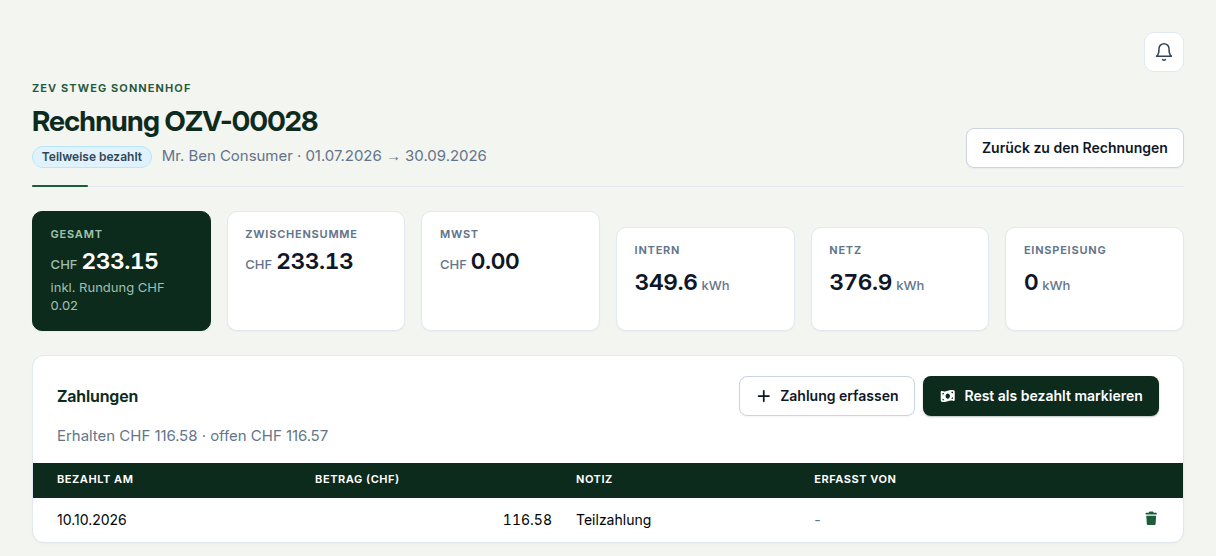
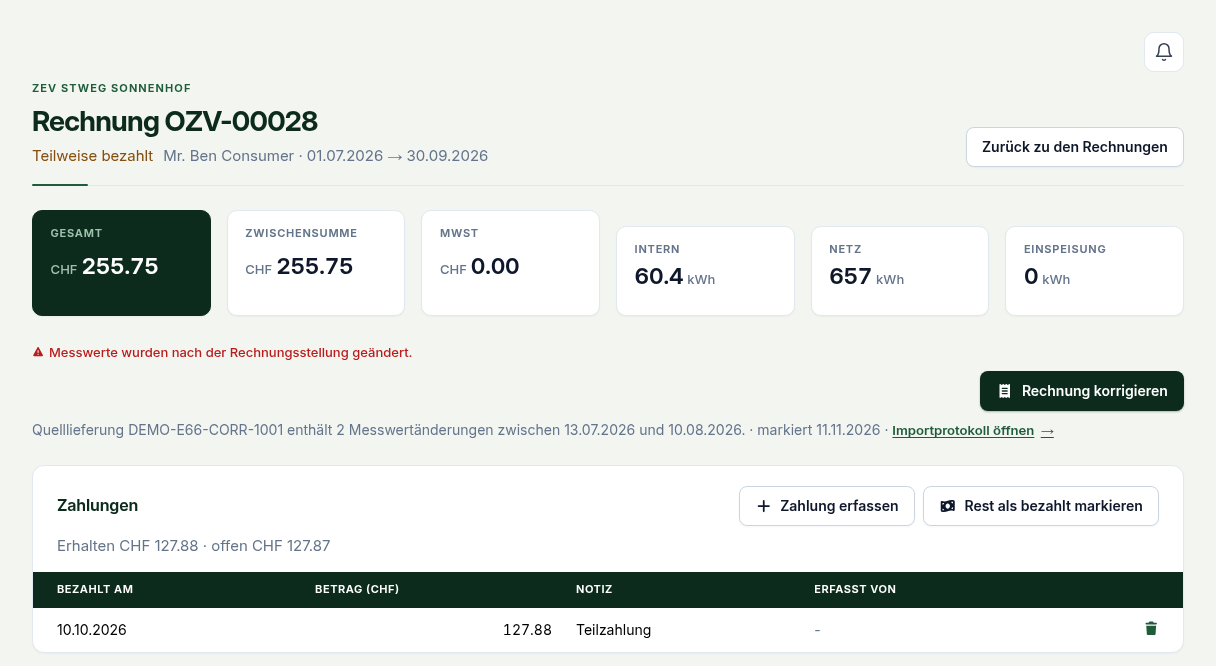
fix(invoices): align detail status colours and co-locate styles (#1253)
* refactor(invoices): move plain status colours beside the badge

InvoiceStatusBadge's plain variant emits .invoice-status-*, but the four rules lived in InvoiceDetailPage.css and only worked because that sheet is imported globally. Move them to InvoicePresentation.css beside the component, imported with the other co-located component sheets in the pages layer; append the import to the block as the stylesheet README asks.

No visual change: the declarations are unchanged and no other rule targets these classes. Cancelled stays red .error-text by design, which the stylesheet now records.

* fix(invoices): align plain status colours

Show sent and paid invoices in green and partly paid invoices as plain
dark-gold text. Update the presentation test, specs and guide screenshots.

diff --git a/frontend/tests/invoice-presentation.test.ts b/frontend/tests/invoice-presentation.test.ts
@@ -55,7 +55,7 @@ describe('shared invoice presentation', () => {
     ] as const)('preserves %s wording in the plain status label with paid amount %s', async (status, paidChf, label) => {
         const { container } = await mount(createElement(InvoiceStatusBadge, { status, paidChf, variant: 'plain' }))
         expect(container.textContent).toContain(label)
-        const className = status === 'cancelled' ? 'error-text' : label === 'invoice.status.partlyPaid' ? 'badge badge-info'
+        const className = status === 'cancelled' ? 'error-text' : label === 'invoice.status.partlyPaid' ? 'invoice-status-partly-paid'
             : ['draft', 'approved', 'sent', 'paid'].includes(status) ? `invoice-status-${status}` : 'muted'
         expect(container.querySelector('span')?.className).toBe(className)
     })

diff --git a/frontend/src/components/InvoicePresentation.tsx b/frontend/src/components/InvoicePresentation.tsx
@@ -41,7 +41,7 @@ export function InvoiceStatusBadge({ status, paidChf, variant = 'badge' }: {
         : status ? t(`invoice.status.${status}`) : ''
     if (status === 'cancelled') return <span className="error-text">{label}</span>
     if (variant === 'plain') {
-        const className = partlyPaid ? 'badge badge-info'
+        const className = partlyPaid ? 'invoice-status-partly-paid'
             : ['draft', 'approved', 'sent', 'paid'].includes(status) ? `invoice-status-${status}` : 'muted'
         return <span className={className}>{label}</span>
     }

diff --git a/frontend/src/components/InvoicePresentation.css b/frontend/src/components/InvoicePresentation.css
@@ -1,0 +1,12 @@
+/* Plain status: draft/partly paid dark gold; approved/sent/paid green. Cancelled uses .error-text. */
+
+.invoice-status-draft,
+.invoice-status-partly-paid {
+  color: var(--warning-800);
+}
+
+.invoice-status-approved,
+.invoice-status-sent,
+.invoice-status-paid {
+  color: var(--success-700);
+}

diff --git a/frontend/src/styles/index.css b/frontend/src/styles/index.css
@@ -109,6 +109,7 @@
 @import '../features/zev/PartyAccess.css' layer(pages);
 @import '../pages/ZevListPage.css' layer(pages);
 @import '../components/dashboard/OwnSystemKwh.css' layer(pages);
+@import '../components/InvoicePresentation.css' layer(pages);
 
 @import './layout/responsive.css' layer(responsive);
 

diff --git a/frontend/src/pages/InvoiceDetailPage.css b/frontend/src/pages/InvoiceDetailPage.css
@@ -22,16 +22,6 @@
   gap: 0.75rem 1rem;
 }
 
-.invoice-status-draft,
-.invoice-status-sent,
-.invoice-status-paid {
-  color: var(--warning-800);
-}
-
-.invoice-status-approved {
-  color: var(--success-700);
-}
-
 .invoice-data-review {
   overflow-wrap: anywhere;
 }

diff --git a/docs/specs/2026-04-frontend-management-page-design.md b/docs/specs/2026-04-frontend-management-page-design.md
@@ -256,7 +256,7 @@ language and should be reused instead of ad hoc page-local CSS when possible:
 | `.stat-card--interactive` | `StatCard` with `onPress`: real button semantics, `[aria-pressed='true']` shows the selected state with `var(--interactive)`; focus styling comes from the global `:focus-visible` ring |
 | `.stat-card--accent`, `.stat-card--success`, `.stat-card--warning`, `.stat-card--danger`, `.stat-card--flat` | Dark accent (≤1 per view); semantic tones color the value (`h3` or span); `flat` removes card chrome for nested tiles |
 | `.button`, `.button-secondary`, `.button-outline`, `.button-danger`, `.button-compact` | Shared button system (flat `var(--interactive)` fill; see SPEC-2026-08-ui-redesign-pdf-style; hover `var(--interactive-hover)`). Inside rows the main action is a forest outline (`button-outline`); destructive row actions are quiet until hovered (`.button-secondary.button-destructive`, and every compact `.button-danger`); confirm dialogs keep the solid red — SPEC-2026-08 §7.4 |
-| `.badge`, `.badge-neutral`, `.badge-info`, `.badge-success`, `.badge-danger`, `.badge-warning`, `.badge-brand`, `.badge-tag` | Small labels. Colour means state: filled desaturated fills from the generated `--status-*` semantics with a matching hairline (current/active/healthy → success, upcoming/scheduled/open → info, needs attention → warning, failed/gap → danger, ended/inactive → neutral), never gold-on-white. Attributes — what a record is (billing mode, energy type, dynamic, version/period counts, meter type, community allocation, roles, kinds, building) — are `.badge-tag`: white, `--border-strong` hairline, `--text-body`, weight 500. Invoice staff tables use the quiet `INVOICE_STATUS_BADGE_CLASS` tag, with cancelled always in red plain text. Detail headers use dark-gold draft/sent/paid and green approved text, except partly paid (blue pill). Participants see `InvoicePaymentState` (due, overdue or paid), rather than workflow labels. |
+| `.badge`, `.badge-neutral`, `.badge-info`, `.badge-success`, `.badge-danger`, `.badge-warning`, `.badge-brand`, `.badge-tag` | Small labels. Colour means state: filled desaturated fills from the generated `--status-*` semantics with a matching hairline (current/active/healthy → success, upcoming/scheduled/open → info, needs attention → warning, failed/gap → danger, ended/inactive → neutral), never gold-on-white. Attributes — what a record is (billing mode, energy type, dynamic, version/period counts, meter type, community allocation, roles, kinds, building) — are `.badge-tag`: white, `--border-strong` hairline, `--text-body`, weight 500. Invoice staff tables use the quiet `INVOICE_STATUS_BADGE_CLASS` tag, with cancelled always in red plain text. Detail headers use plain text: dark-gold draft/partly paid and green approved/sent/paid. Participants see `InvoicePaymentState` (due, overdue or paid), rather than workflow labels. |
 | `IssueText` (`components/IssueText.tsx`, `.issue-text--error`/`--warning`) | A concrete problem as short red or amber text with a warning icon and no capsule (ui-patterns §10.1). With `to` it is a link, with `onClick` a button, with neither plain text: a read-only user gets the same words without a click affordance. Use it instead of `.badge-danger`/`.badge-warning` for something the user can act on; a `.badge` stays for a state (failed job, running work, classification). |
 | `.error-banner`, `.warning-banner`, `.info-banner` | Error/warning surfaces used by `Notice`; `.info-banner` remains for existing information callouts. Import and invoice containers use `.plain-feedback` to remove coloured notice backgrounds without changing roles or recovery actions elsewhere. |
 | `.actions-row`, `.actions-row-wrap`, `.actions-row-end`, `.actions-row-gap-lg` | Inline action layouts; the large gap preserves 1rem between confirmation buttons |

diff --git a/docs/specs/2026-08-ui-redesign-pdf-style.md b/docs/specs/2026-08-ui-redesign-pdf-style.md
@@ -1145,8 +1145,8 @@ contracts are unchanged.
   text line instead (see the tariff list above). Tariff validity `scheduled` is info (the blue of
   "upcoming" elsewhere); an inactive metering point is neutral, not danger. Invoice staff tables use one quiet neutral
   tag (`INVOICE_STATUS_BADGE_CLASS`) for workflow states. Detail headers use
-  `InvoiceStatusBadge variant="plain"` text (draft/sent/paid in dark gold,
-  approved in green, cancelled in red), except partly paid (blue pill);
+  `InvoiceStatusBadge variant="plain"` text (draft and partly paid in dark gold,
+  approved, sent and paid in green, cancelled in red);
   cancelled labels also use red text in staff tables. Participants see their payment
   state instead. Issued PDFs do not print a workflow status pill.
 
@@ -1157,7 +1157,7 @@ contracts are unchanged.
 
 ### 15.4 Pages
 
-- Invoice detail: the status label (plain text, except the partly-paid pill) joins the recipient and period in the page
+- Invoice detail: the status label (plain text) joins the recipient and period in the page
   header (`.invoice-detail-meta`, with a visually-hidden "Status:" label);
   below it `.invoice-figures` holds two `.stat-grid` rows of figure tiles —
   Total (accent), Subtotal, VAT; Local, Grid, Feed-in (`aria-label` =

diff --git a/docs/user-guide/09-invoice-management.md b/docs/user-guide/09-invoice-management.md
@@ -466,9 +466,10 @@ the invoice. Read-only users receive no instruction to generate a document.
 ![Invoice detail page](screenshots/08b-invoice-detail.png)
 
 The page header names the invoice and, next to the recipient and the billing
-period, its current **status** as plain text, with **Cancelled** in red error text and
-**Partly paid** kept as a blue pill (a participant sees whether
-payment is due, overdue or paid instead). The invoice PDF itself no longer prints
+period, its current **status** as plain text: draft and **Partly paid** in dark
+gold, approved, sent and paid in green, and **Cancelled** in red error text
+(a participant sees whether payment is due, overdue or paid
+instead). The invoice PDF itself no longer prints
 a status line; only a draft or cancelled document carries a plain **Draft** or
 **Cancelled** marking. Below it, two rows of figure tiles summarise the invoice the way its
 PDF does:

diff --git a/docs/specs/2026-03-invoice-lifecycle-and-communication.md b/docs/specs/2026-03-invoice-lifecycle-and-communication.md
@@ -452,9 +452,8 @@ For a flagged invoice with a stored PDF, the document is labelled as a stored
 draft whose changes are not yet included, or as the issued original. A failed or
 cancelled recalculation leaves that label intact; a successful new draft has no
 open review flag and therefore no pending-changes label.
-Staff detail status text is dark gold for draft/sent/paid and green for approved.
-Cancelled labels use red text for staff and participants; only partly
-paid keeps its blue pill in the detail header.
+Staff detail status text is dark gold for draft and partly paid, and green for
+approved, sent and paid. Cancelled labels use red text for staff and participants.
 German sent-status labels consistently read **Versandt**.
 
 Cancel and full-reversal responses clear cached open `reading_impacts` before
